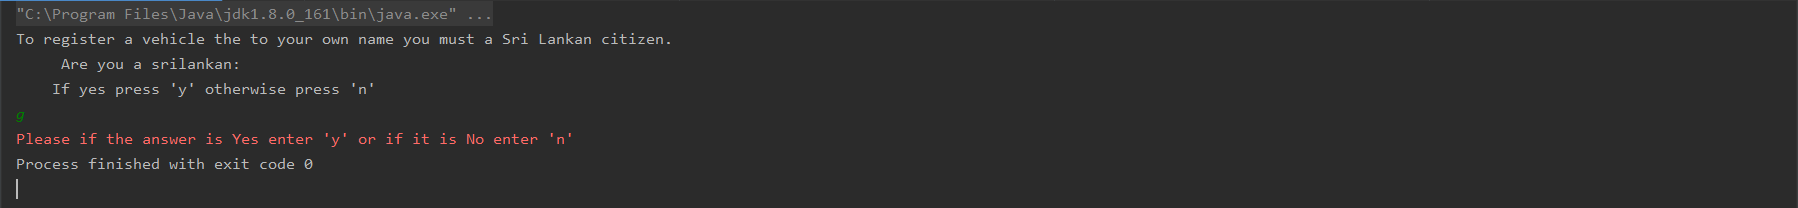
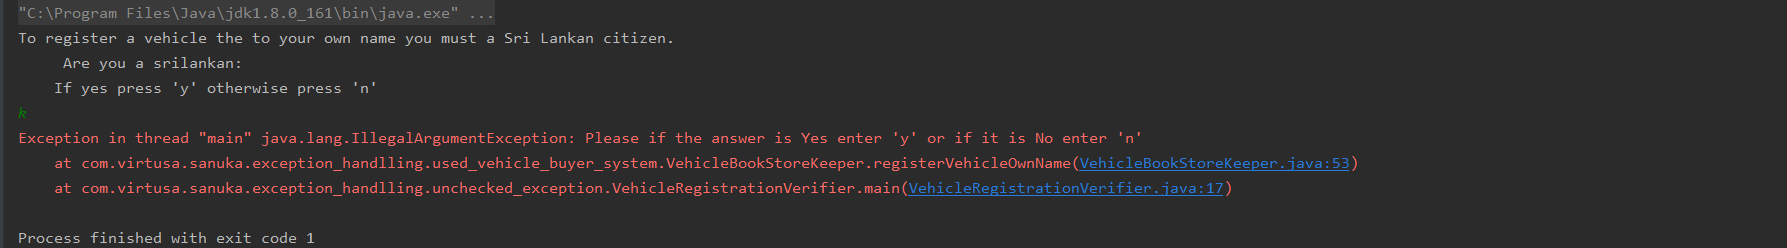
runtime exception changes

diff --git a/src/com/virtusa/sanuka/exception_handlling/unchecked_exception/VehicleRegistrationVerifier.java b/src/com/virtusa/sanuka/exception_handlling/unchecked_exception/VehicleRegistrationVerifier.java
@@ -13,12 +13,7 @@ public class VehicleRegistrationVerifier {
                 "\n\tIf yes press 'y' otherwise press 'n'");
         citizenship = scanner.nextLine();
 
-        try{
             VehicleBookStoreKeeper vehicleBookStoreKeeper = new VehicleBookStoreKeeper();
             vehicleBookStoreKeeper.registerVehicleOwnName(citizenship);
-        } catch (IllegalArgumentException e) {
-            System.err.print(e.getMessage());
-            //e.printStackTrace();;
-        }
     }
 }
